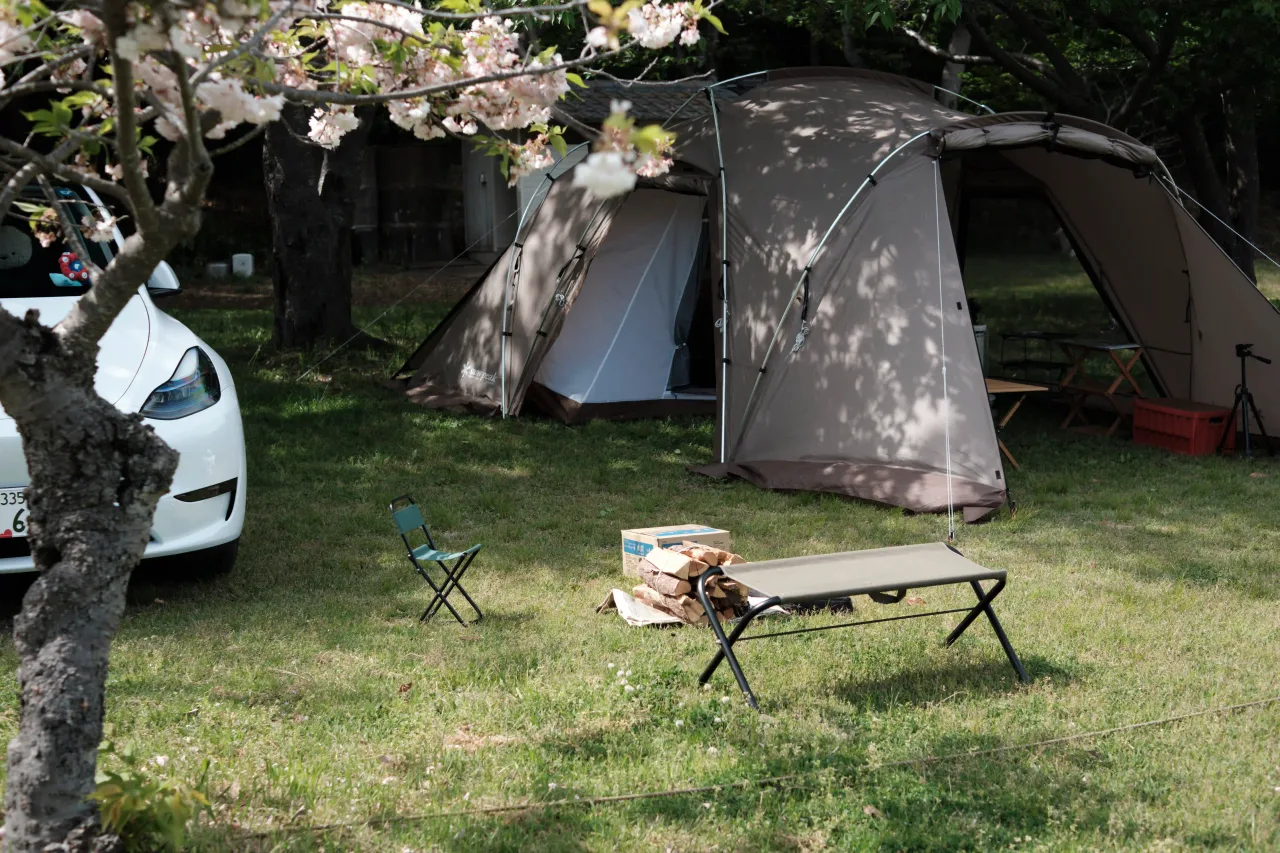
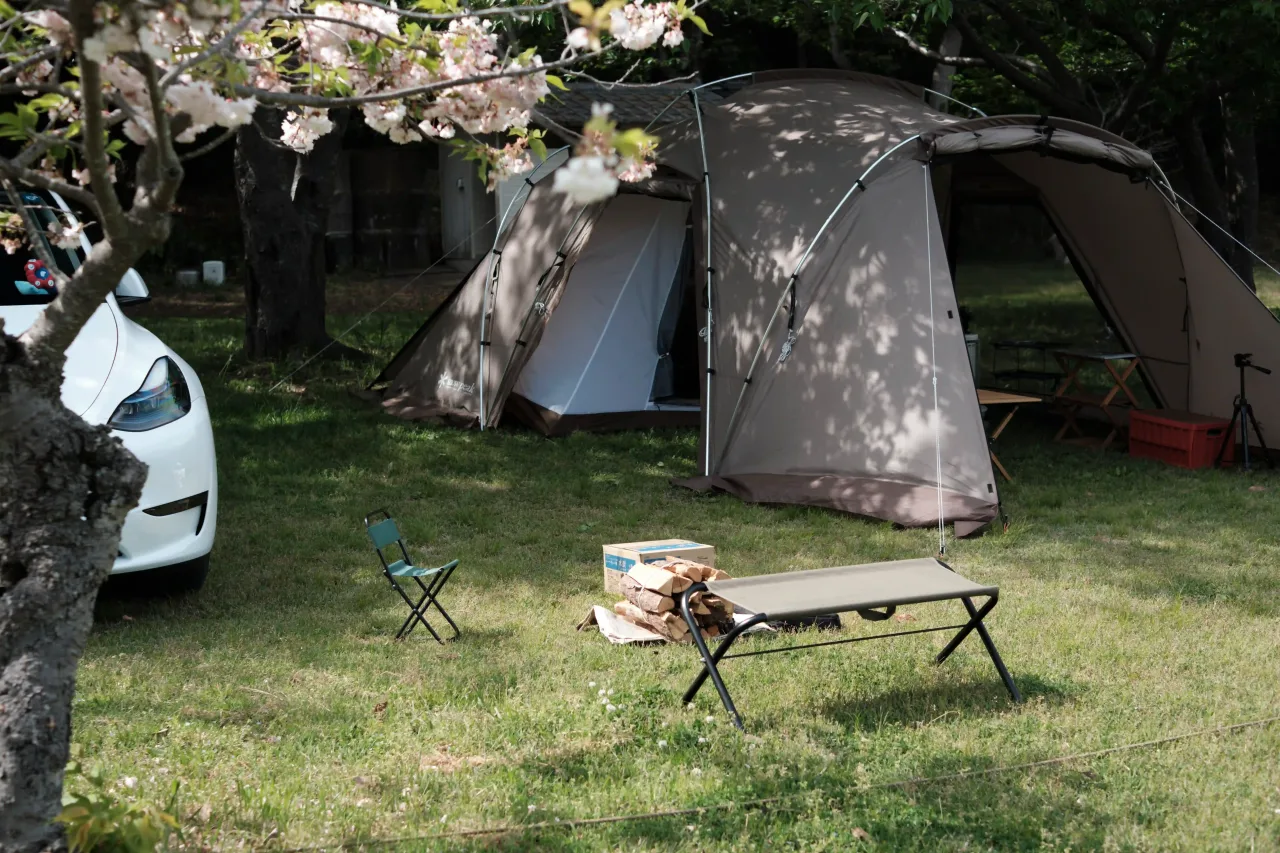
Gỡ slide sale hero, cập nhật lịch và làm mới ảnh index-slide-2.
Hết thời gian KM nên bỏ sale-hero khỏi carousel trang chủ; cập nhật ngày lịch 22/7 và đồng bộ ảnh hero slide 2.

diff --git a/public/sw.js b/public/sw.js
@@ -1,12 +1,12 @@
-/* Camp Nhà Thỏ — service worker (generated 20260711) */
-const CACHE_VERSION = '20260711';
+/* Camp Nhà Thỏ — service worker (generated 20260722) */
+const CACHE_VERSION = '20260722';
 const STATIC_CACHE = 'campnhatho-static-' + CACHE_VERSION;
 
 const PRECACHE_URLS = [
   '/',
   '/favicon.ico',
   '/fonts/be-vietnam-pro-vietnamese-400-normal.woff2',
-  '/images/responsive/sale-hero-1280w.webp',
+  '/images/responsive/hero-camping-1280w.webp',
   '/nav-menu.js',
   '/home-map-preview.js',
   '/locations-map-sites.js',

diff --git a/lib/schedule/content.js b/lib/schedule/content.js
@@ -7,7 +7,7 @@ export const SCHEDULE_INTRO = {
     'Xem ngày Còn chỗ và các chuyến đã lên lịch — nhắn TikTok hoặc Facebook để đặt với Camp Nhà Thỏ.',
 };
 
-export const SCHEDULE_LAST_UPDATED = '2026/07/11';
+export const SCHEDULE_LAST_UPDATED = '2026/07/22';
 
 /** @type {{ swatchClass: string; swatchLabel: string; label: string; description: string }[]} */
 export const SCHEDULE_LEGEND_ITEMS = [

diff --git a/lib/hero/slides.js b/lib/hero/slides.js
@@ -7,11 +7,6 @@
 export const HERO_SLIDES = {
   home: [
     {
-      baseName: 'sale-hero',
-      widths: [640, 1280, 1920],
-      alt: 'Camp Nhà Thỏ — ưu đãi Sale camping Phú Sĩ',
-    },
-    {
       baseName: 'hero-camping',
       widths: [640, 1280, 1920],
       alt: 'Camping Phú Sĩ - Share đồ cắm trại, chụp hình chill cảnh đẹp Nhật Bản',

diff --git a/scripts/build.js b/scripts/build.js
@@ -17,7 +17,7 @@ const requiredFiles = [
   'fonts/be-vietnam-pro-vietnamese-400-normal.woff2',
   'public/sw.js',
   'home-map-preview.js',
-  'images/responsive/sale-hero-1280w.webp',
+  'images/responsive/hero-camping-1280w.webp',
   'images/responsive/about-hero-960w.webp',
   'images/responsive/equipment-hero-960w.webp',
   'images/responsive/plan-de-400w.webp',

diff --git a/scripts/generate-sw.js b/scripts/generate-sw.js
@@ -17,7 +17,7 @@ const PRECACHE_URLS = [
   '/',
   '/favicon.ico',
   '/fonts/be-vietnam-pro-vietnamese-400-normal.woff2',
-  '/images/responsive/sale-hero-1280w.webp',
+  '/images/responsive/hero-camping-1280w.webp',
   '/nav-menu.js',
   '/home-map-preview.js',
   '/locations-map-sites.js',
